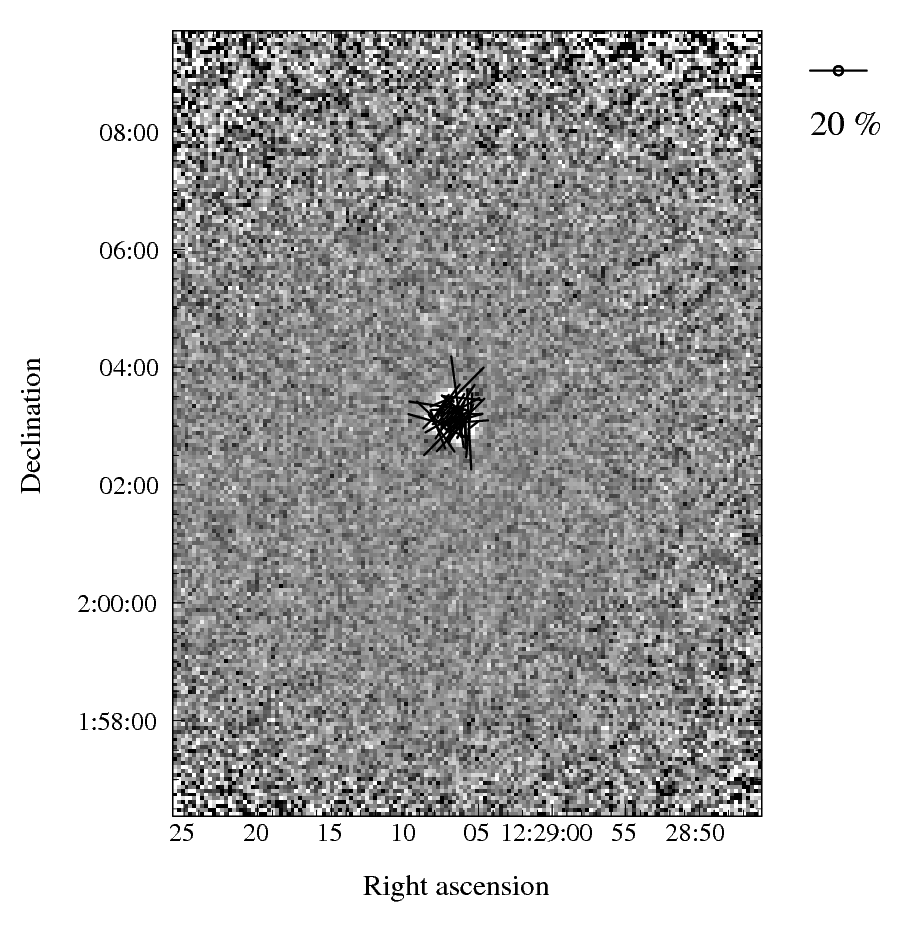
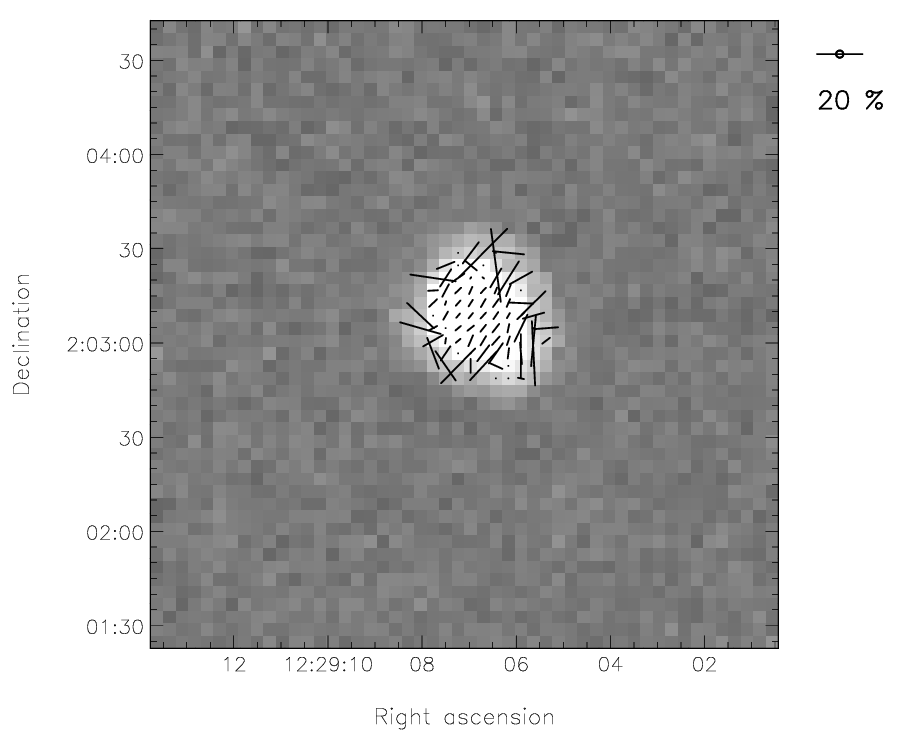
sc22: update figure and text for zoom in for vectors on neg image

diff --git a/docs/sc/022/sc22_pol2_image_display.tex b/docs/sc/022/sc22_pol2_image_display.tex
@@ -339,7 +339,7 @@ that the brightest regions are grey rather than black.  This means the
 black vectors can still be seen over the brightest regions.
 
 \begin{terminalv}
-% display tmp1\(5~150,0~200\) mode=perc percentiles=\[2,98\] style=^sty \
+% display tmp1\(0~50,0~50\) mode=perc percentiles=\[2,98\] style=^sty \
         low=0.4 high=1.0 \
         penrange=\[0.4,1.0\]
 \end{terminalv}
